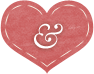
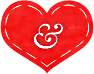
theame change commit

diff --git a/index.html b/index.html
@@ -60,7 +60,7 @@ document.oncontextmenu = function(e) {
 <!-- Header End -->
 
 <div class="page"><!-- Intro -->
-<section class="home_intro white_txt parallax2" data-image="images/newpic/we_are_getting_married.jpg">
+<section class="home_intro white_txt parallax2" data-image="images/people/myfamily.jpg">
 <div class="home_txt" data-0="opacity:1" data-top-bottom="opacity:0"><!-- Intro Text -->
 <div class="title1 title1_2">We Are Getting Married</div>
 
@@ -109,7 +109,7 @@ document.oncontextmenu = function(e) {
 </div>
 
 <div class="married_txt" data-bottom="opacity:0" data-center="opacity:1">
-<h2>Ravi &amp; Manisha</h2>
+<h2>Ankit &amp; Swati</h2>
 &nbsp;
 
 <div class="thanks visible-md visible-lg" style="font:37px/48px Great Vibes;color:#C5373D;">When Love turns divine,<br />
@@ -134,7 +134,7 @@ Marriage happens!</div>
                 
                 <!-- Item -->
                 <div class="story_item">
-                    <div class="story_img parallax" data-image="images/newpic/jab_we_met.jpg"><div class="story_img_plane"></div></div>
+                    <div class="story_img parallax" data-image="images/people/jab_we_met.jpg"><div class="story_img_plane"></div></div>
                     <div class="story_plane">
                         <div class="story_back"></div>
                         <div class="story_txt">
@@ -150,7 +150,7 @@ Marriage happens!</div>
 
                 <!-- Item -->
                 <div class="story_item">
-					<div class="story_img parallax" data-image="images/newpic/of_course_pyar.jpg">
+					<div class="story_img parallax" data-image="images/people/of_course_pyar.jpg">
 					<div class="story_img_plane"></div></div>
                    
                     <div class="story_plane">
@@ -168,7 +168,7 @@ Marriage happens!</div>
 
                 <!-- Item -->
                 <div class="story_item">
-                    <div class="story_img parallax" data-image="images/newpic/masti.jpg"><div class="story_img_plane"></div></div>
+                    <div class="story_img parallax" data-image="images/people/masti.jpg"><div class="story_img_plane"></div></div>
                     <div class="story_plane">
                         <div class="story_back"></div>
                         <div class="story_txt">
@@ -182,7 +182,7 @@ Marriage happens!</div>
 
                 <!-- Item -->
                 <div class="story_item">
-                    <div class="story_img parallax" data-image="images/newpic/dil_chahta.jpg"><div class="story_img_plane"></div></div>
+                    <div class="story_img parallax" data-image="images/people/dil_chahta.jpg"><div class="story_img_plane"></div></div>
                     <div class="story_plane">
                         <div class="story_back"></div>
                         <div class="story_txt">
@@ -199,7 +199,7 @@ Marriage happens!</div>
 
                 <!-- Item -->
                 <div class="story_item">
-                    <div class="story_img parallax" data-image="images/newpic/dil_to_pagal.jpg"><div class="story_img_plane"></div></div>
+                    <div class="story_img parallax" data-image="images/people/dil_to_pagal.jpg"><div class="story_img_plane"></div></div>
                     <div class="story_plane">
                         <div class="story_back"></div>
                         <div class="story_txt">
@@ -215,7 +215,7 @@ Marriage happens!</div>
 
                 <!-- Item -->
                 <div class="story_item">
-                    <div class="story_img parallax" data-image="images/newpic/dilwale.jpg"><div class="story_img_plane"></div></div>
+                    <div class="story_img parallax" data-image="images/people/dilwale.jpg"><div class="story_img_plane"></div></div>
                     <div class="story_plane">
                         <div class="story_back"></div>
                         <div class="story_txt">
@@ -248,50 +248,50 @@ Marriage happens!</div>
 <div class="guest_wrapper"><!-- Best Man & Maid of Honor  -->
 
 <div class="guest_item">
-<div class="guest_photo"><img alt="Ravi's Father" src="images/newpic/ravi_dad.jpg" /></div>
+<div class="guest_photo"><img alt="Ravi's Father" src="images/people/ravi_dad.jpg" /></div>
 
 <div class="guest_title" style=" font: 27px/40px Great Vibes;"><span>&nbsp;</span> Rasikbhai Patel</div>
 Ravi&#39;s Father</div>
 
 <div class="guest_item">
-<div class="guest_photo"><img alt="Maid Of Honor" src="images/newpic/ravi_mom.jpg" /></div>
+<div class="guest_photo"><img alt="Maid Of Honor" src="images/people/ravi_mom.jpg" /></div>
 
 <div class="guest_title" style=" font: 27px/40px Great Vibes;"><span>&nbsp;</span> Bhavnaben Patel</div>
 Ravi&#39;s Mother</div>
 
 <div class="guest_item">
-<div class="guest_photo"><img alt="Ravi's Sister" src="images/newpic/ravi_sister.jpg" /></div>
+<div class="guest_photo"><img alt="Ravi's Sister" src="images/people/ravi_sister.jpg" /></div>
 
 <div class="guest_title" style=" font: 27px/40px Great Vibes;"><span>&nbsp;</span> Parul Patel</div>
 Ravi&#39;s Sister</div>
 
 <div class="guest_item">
-<div class="guest_photo"><img alt="Ravi's Brother" src="images/newpic/ravi_brother.jpg" /></div>
+<div class="guest_photo"><img alt="Ravi's Brother" src="images/people/ravi_brother.jpg" /></div>
 
 <div class="guest_title" style=" font: 27px/40px Great Vibes;"><span>&nbsp;</span> Chirag Patel</div>
 Ravi&#39;s Brother</div>
 <!-- Groomsman & Bridesmaid -->
 
 <div class="guest_item">
-<div class="guest_photo"><img alt="Manisha's Father" src="images/newpic/mani_dad.jpg" /></div>
+<div class="guest_photo"><img alt="Manisha's Father" src="images/people/mani_dad.jpg" /></div>
 
 <div class="guest_title" style=" font: 27px/40px Great Vibes;"><span>&nbsp;</span> Ranchodbhai Patel</div>
 Manisha&#39;s Father</div>
 
 <div class="guest_item">
-<div class="guest_photo"><img alt="Manisha's Mother" src="images/newpic/mani_mom.jpg" /></div>
+<div class="guest_photo"><img alt="Manisha's Mother" src="images/people/mani_mom.jpg" /></div>
 
 <div class="guest_title" style=" font: 27px/40px Great Vibes;"><span>&nbsp;</span> Gauriben Patel</div>
 Manisha&#39;s Mother</div>
 
 <div class="guest_item">
-<div class="guest_photo"><img alt="Manisha's Brother" src="images/newpic/mani_sis1.jpg" /></div>
+<div class="guest_photo"><img alt="Manisha's Brother" src="images/people/mani_sis1.jpg" /></div>
 
 <div class="guest_title" style=" font: 27px/40px Great Vibes;"><span>&nbsp;</span> Anshoya Patel</div>
 Manisha&#39;s Sister</div>
 
 <div class="guest_item">
-<div class="guest_photo"><img alt="Manisha's Brother" src="images/newpic/mani_sis2.jpg" /></div>
+<div class="guest_photo"><img alt="Manisha's Brother" src="images/people/mani_sis2.jpg" /></div>
 
 <div class="guest_title" style=" font: 27px/40px Great Vibes;"><span>&nbsp;</span> Kailash Patel</div>
 Manisha&#39;s Sister</div>
@@ -305,19 +305,19 @@ Manisha&#39;s Sister</div>
 <h2>Saptapadi</h2>
 
 <div class="saptapadi" style="width:100%; float:left; padding:0 2% 0 5%; text-align:left;">
-<p style="font-size: 18px;"><img height="20" src="images/pink/bullet.png" style="padding-right:10px;" width="25" />On 1st step they will promise for household keeping, pure diet and to avoid those things that might harm them;</p>
+<p style="font-size: 18px;"><img height="20" src="images/red/bullet.png" style="padding-right:10px;" width="25" />On 1st step they will promise for household keeping, pure diet and to avoid those things that might harm them;</p>
 
-<p style="font-size: 18px;"><img height="20" src="images/pink/bullet.png" style="padding-right:10px;" width="25" />On 2nd step they will promise to develop their physical, mental and spiritual power;</p>
+<p style="font-size: 18px;"><img height="20" src="images/red/bullet.png" style="padding-right:10px;" width="25" />On 2nd step they will promise to develop their physical, mental and spiritual power;</p>
 
-<p style="font-size: 18px;"><img height="20" src="images/pink/bullet.png" style="padding-right:10px;" width="25" />On 3rd step they will promise to increase their wealth by righteous and proper means;</p>
+<p style="font-size: 18px;"><img height="20" src="images/red/bullet.png" style="padding-right:10px;" width="25" />On 3rd step they will promise to increase their wealth by righteous and proper means;</p>
 
-<p style="font-size: 18px;"><img height="20" src="images/pink/bullet.png" style="padding-right:10px;" width="25" /> On 4th step they will promise to acquire knowledge, wealth, happiness and harmony by mutual love, respect and trust;</p>
+<p style="font-size: 18px;"><img height="20" src="images/red/bullet.png" style="padding-right:10px;" width="25" /> On 4th step they will promise to acquire knowledge, wealth, happiness and harmony by mutual love, respect and trust;</p>
 
-<p style="font-size: 18px;"><img height="20" src="images/pink/bullet.png" style="padding-right:10px;" width="25" /> On 5th step they will pray for the blessings for strong virtuous and heroic children;</p>
+<p style="font-size: 18px;"><img height="20" src="images/red/bullet.png" style="padding-right:10px;" width="25" /> On 5th step they will pray for the blessings for strong virtuous and heroic children;</p>
 
-<p style="font-size: 18px;"><img height="20" src="images/pink/bullet.png" style="padding-right:10px;" width="25" />On 6th step they will promise to strive for self respect and longevity;</p>
+<p style="font-size: 18px;"><img height="20" src="images/red/bullet.png" style="padding-right:10px;" width="25" />On 6th step they will promise to strive for self respect and longevity;</p>
 
-<p style="font-size: 18px;"><img height="20" src="images/pink/bullet.png" style="padding-right:10px;" width="25" /> On 7th and final step they will promise to be true companions and remain lifelong partners.</p>
+<p style="font-size: 18px;"><img height="20" src="images/red/bullet.png" style="padding-right:10px;" width="25" /> On 7th and final step they will promise to be true companions and remain lifelong partners.</p>
 &nbsp;
 
 <p style="font-size: 15px;">On completion of saptapadi they will take first step into a new life of togetherness in presence of holly fire.</p>
@@ -370,98 +370,90 @@ Manisha&#39;s Sister</div>
         <div class="gallery_wrapper">
             <div class="gallery_item">
                 <div class="gallery_txt">
-                   <a href="images/newpic/slide1.jpg">
-						<img src="images/newpic/slide1.jpg" alt="Gallery 1">    
+                   <a href="images/people/slide1.jpg">
+						<img src="images/people/slide1.jpg" alt="Gallery 1">    
                    </a>
                 </div>
-                <img src="images/newpic/slide1.jpg" alt="Gallery 1">    
+                <img src="images/people/slide1.jpg" alt="Gallery 1">    
             </div>
             <div class="gallery_item">
                 <div class="gallery_txt">
-                    <a href="images/newpic/slide2.jpg" >
-						<img src="images/newpic/slide2.jpg" alt="Gallery 2">   
+                    <a href="images/people/myfamily.jpg" >
+						<img src="images/people/myfamily.jpg" alt="Gallery 2">
                     </a>
                 </div>
-                <img src="images/newpic/slide2.jpg" alt="Gallery 2">    
+                <img src="images/people/myfamily.jpg" alt="Gallery 2">
             </div>
             <div class="gallery_item">
                 <div class="gallery_txt">
-                    <a href="images/newpic/slide3.jpg" >
-						<img src="images/newpic/slide3.jpg" alt="Gallery 3">  
+                    <a href="images/people/slide3.jpg" >
+						<img src="images/people/slide3.jpg" alt="Gallery 3">  
                     </a>
                 </div>
-                <img src="images/newpic/slide3.jpg" alt="Gallery 3">    
+                <img src="images/people/slide3.jpg" alt="Gallery 3">    
             </div>
             <div class="gallery_item">
                 <div class="gallery_txt">
-                    <a href="images/newpic/slide4.jpg" >
-                   <img src="images/newpic/slide4.jpg" alt="Gallery 4">    
+                    <a href="images/people/slide4.jpg" >
+                   <img src="images/people/slide4.jpg" alt="Gallery 4">    
                     </a>
                 </div>
-                <img src="images/newpic/slide4.jpg" alt="Gallery 4">    
+                <img src="images/people/slide4.jpg" alt="Gallery 4">    
             </div>
 			<div class="gallery_item">
                 <div class="gallery_txt">
-                    <a href="images/newpic/slide5.jpg" >
-                   <img src="images/newpic/slide5.jpg" alt="Gallery 5">    
+                    <a href="images/people/slide5.jpg" >
+                   <img src="images/people/slide5.jpg" alt="Gallery 5">    
                     </a>
                 </div>
-                <img src="images/newpic/slide5.jpg" alt="Gallery 5">    
+                <img src="images/people/slide5.jpg" alt="Gallery 5">    
             </div>
             <div class="gallery_item">
                 <div class="gallery_txt">
-                    <a href="images/newpic/slide6.jpg" >
-                    <img src="images/newpic/slide6.jpg" alt="Gallery 6">    
+                    <a href="images/people/slide6.jpg" >
+                    <img src="images/people/slide6.jpg" alt="Gallery 6">    
                     </a>
                 </div>
-                <img src="images/newpic/slide6.jpg" alt="Gallery 6">    
+                <img src="images/people/slide6.jpg" alt="Gallery 6">    
             </div>
 			<div class="gallery_item">
                 <div class="gallery_txt">
-                    <a href="images/newpic/slide7.jpg" >
-                   <img src="images/newpic/slide7.jpg" alt="Gallery 7">    
+                    <a href="images/people/slide7.jpg" >
+                   <img src="images/people/slide7.jpg" alt="Gallery 7">    
                     </a>
                 </div>
-                <img src="images/newpic/slide7.jpg" alt="Gallery 7">    
+                <img src="images/people/slide7.jpg" alt="Gallery 7">    
             </div>
 			<div class="gallery_item">
                 <div class="gallery_txt">
-                    <a href="images/newpic/slide8.jpg" >
-                   <img src="images/newpic/slide8.jpg" alt="Gallery 8">    
+                    <a href="images/people/slide8.jpg" >
+                   <img src="images/people/slide8.jpg" alt="Gallery 8">    
                     </a>
                 </div>
-                <img src="images/newpic/slide8.jpg" alt="Gallery 8">    
+                <img src="images/people/slide8.jpg" alt="Gallery 8">    
             </div>
 			<div class="gallery_item">
                 <div class="gallery_txt">
-                    <a href="images/newpic/slide9.jpg" >
-                   <img src="images/newpic/slide9.jpg" alt="Gallery 9">    
+                    <a href="images/people/slide9.jpg" >
+                   <img src="images/people/slide9.jpg" alt="Gallery 9">    
                     </a>
                 </div>
-                <img src="images/newpic/slide9.jpg" alt="Gallery 9">    
+                <img src="images/people/slide9.jpg" alt="Gallery 9">    
             </div>
 			<div class="gallery_item">
                 <div class="gallery_txt">
-                    <a href="images/newpic/slide10.jpg" >
-                   <img src="images/newpic/slide10.jpg" alt="Gallery 10">    
+                    <a href="images/people/slide10.jpg" >
+                   <img src="images/people/slide10.jpg" alt="Gallery 10">    
                     </a>
                 </div>
-                <img src="images/newpic/slide10.jpg" alt="Gallery 10">    
+                <img src="images/people/slide10.jpg" alt="Gallery 10">    
             </div>
 		</div>
     </section>
     <!-- Gallery End -->
 
-	<!--section class="hotel" id="hotel">
-
-        <div class="container opacity">
-            <p style="color:#333333; font-size:18px; font-weight:400; position:relative;"><img src="images/info-1.png" style="position:absolute; left:-40px; top:-17px;"> લગ્ન એ અઢી અક્ષરની વાત છે, પણ આ પ્રસંગ જીવનભર નો સંગાથ છે<br/> એમ તમોને અમાંત્રણ આપ્યું એ  આપણાં સંબંધ ની વાત છે,  <br/>   લગ્નનો શુભ મંગલ પ્રસંગ  આવ્યો છે,  ખુબ ભાવથી લખી છે કંકોત્રી, વ્હાલાને વિનંતી છે, તમે આવો તો ખુશીઓની રમઝટ જામશે <img src="images/info-2.png" style="position:absolute; right:0; top:14px;right: -41px;top: -20px;"></p>
-        </div>
-    </section-->
-	
-   
-    <!--<!-- Footer --
-    <section class="footer white_txt parallax" id="footer" data-image="images/newpic/footer_image.jpg">
+	<!--<!-- Footer --
+    <section class="footer white_txt parallax" id="footer" data-image="images/people/footer_image.jpg">
         <div class="over"></div>
         <div class="container" style="padding: 60px 16px 500px;">
 
@@ -469,21 +461,21 @@ Manisha&#39;s Sister</div>
             <div class="thanks"></div>
             <div class="footer_txt">
 
-               
+
 
 
                 <!-- Social Buttons --
                 <div class="footer_social">
-                   
+
                 </div>
                  <div class="title1">&nbsp;</div>
-               
+
             </div>
         </div>
 
-         
+
 	<div class="into_firefly"></div>
-    </section>--> 
+    </section>-->
     
 <section class="hotel" id="hotel">
 
@@ -534,6 +526,4 @@ Manisha&#39;s Sister</div>
 
 </body>
 
-
-<!-- Mirrored from raviwedsmanisha.in/ by HTTrack Website Copier/3.x [XR&CO'2014], Sun, 03 Jan 2016 08:36:29 GMT -->
 </html>
